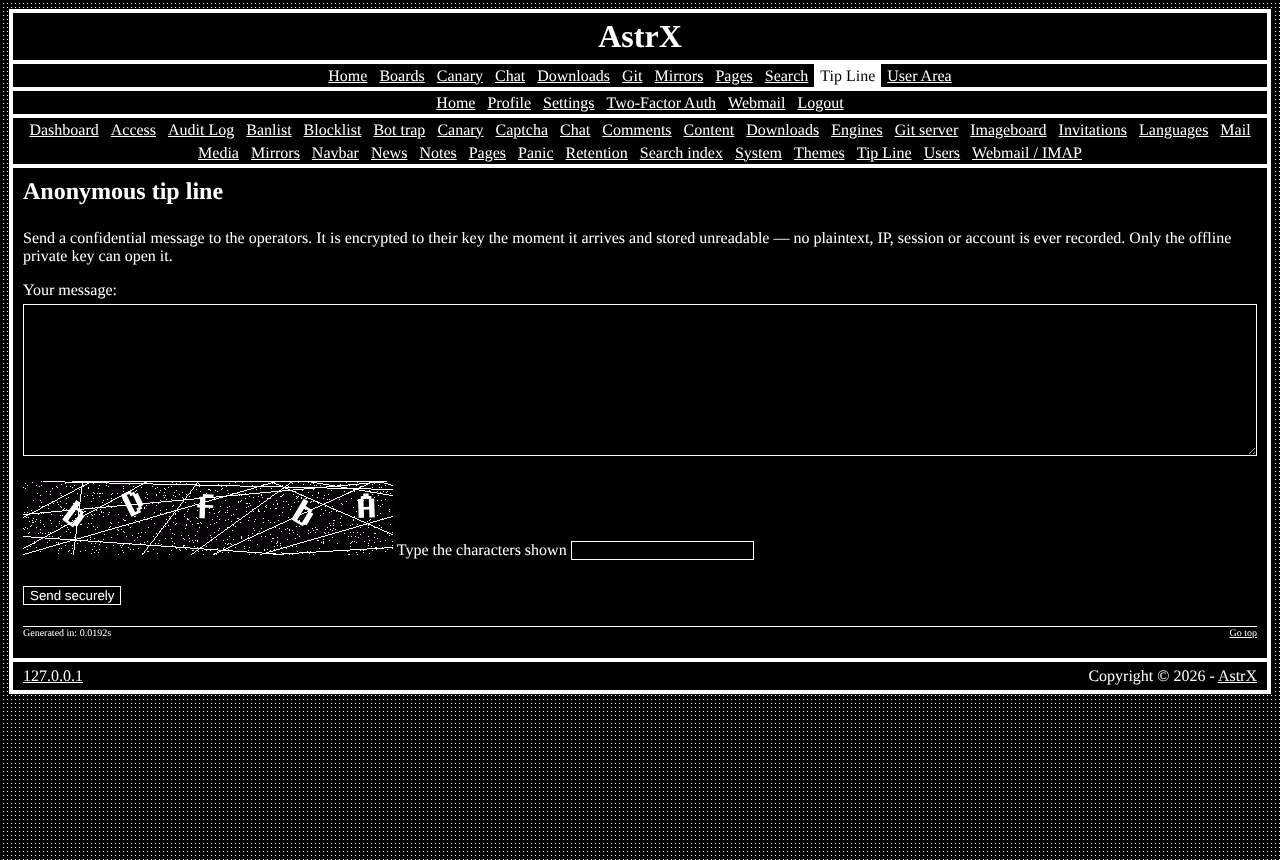
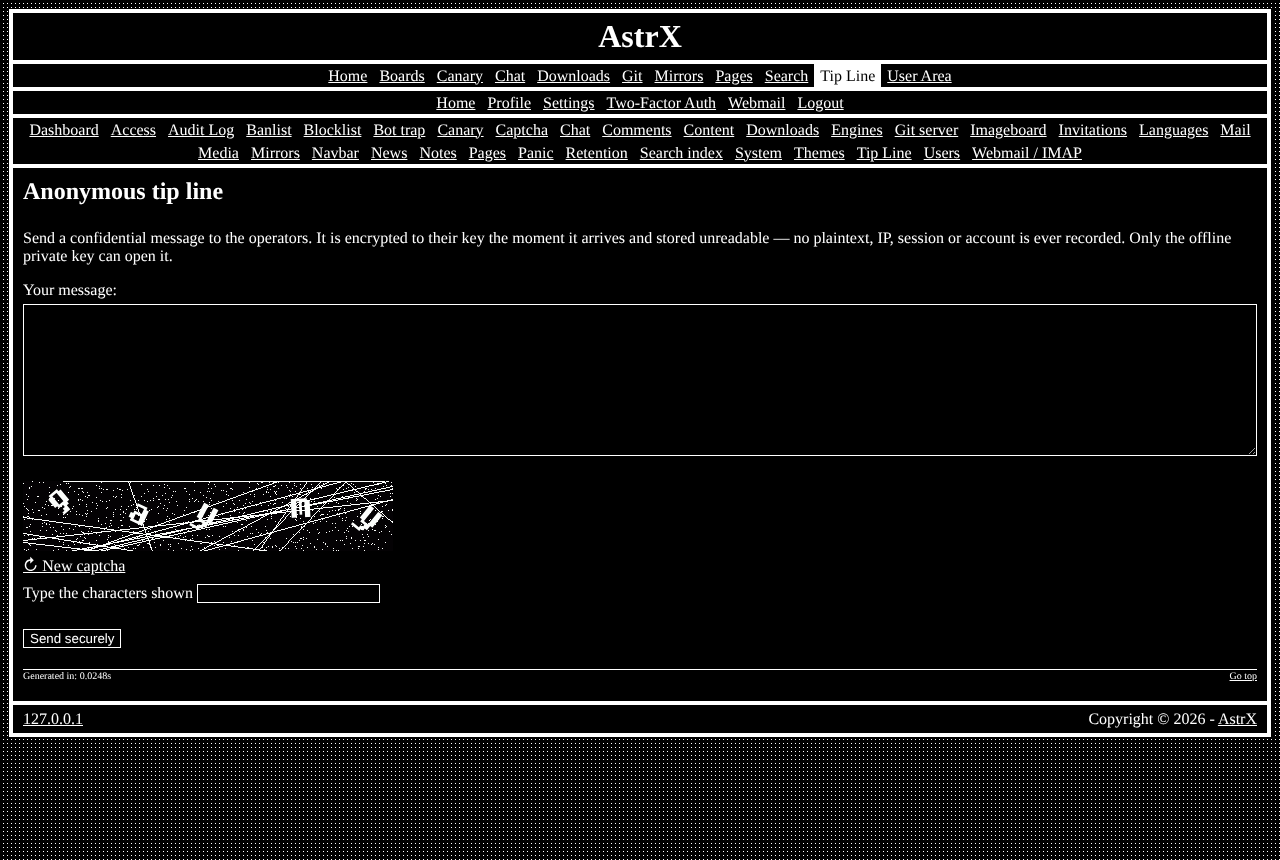
Add the login and sign-up pages to the screenshots
Both taken logged out, with key login and the captcha's reload link on.
The tip line is retaken for the same reload link.

Changed region(s): [[0.0, 0.7256, 1.0, 0.8767], [0.0, 0.5442, 0.3125, 0.6953], [0.3125, 0.6349, 0.4375, 0.6651]]

diff --git a/docs/screenshots/README.md b/docs/screenshots/README.md
@@ -2,8 +2,8 @@
 
 All taken on a local install filled with made-up content: the people, posts,
 mail and pictures are invented, and the keys are throwaway. Every module is
-on, every page is seen by the same administrator ("Ash"), and every one uses
-the default theme. [tools/demo](../../tools/demo/README.md) builds the same
+on, every page is seen by the same administrator ("Ash") except the login and
+sign-up pages, which only visitors see, and every one uses the default theme. [tools/demo](../../tools/demo/README.md) builds the same
 site and retakes them all.
 
 ## The site
@@ -16,6 +16,8 @@ site and retakes them all.
 | A profile | A wiki page, with its backlinks |
 | ![The user area](user-home.png) | ![Account settings](settings.png) |
 | The user area | Account settings |
+| ![Logging in](login.png) | ![Signing up](register.png) |
+| Logging in, with a password or a key | Signing up |
 
 ![A thread on the imageboard](board.png)
 
